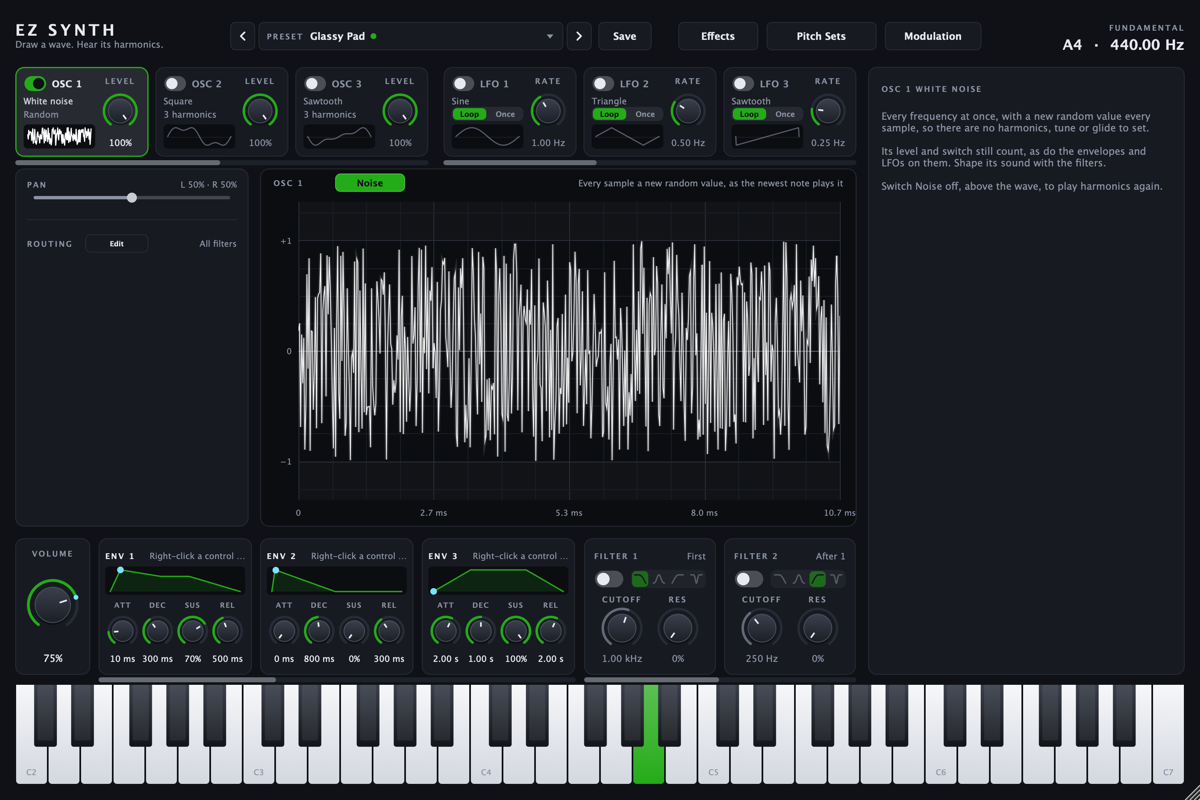
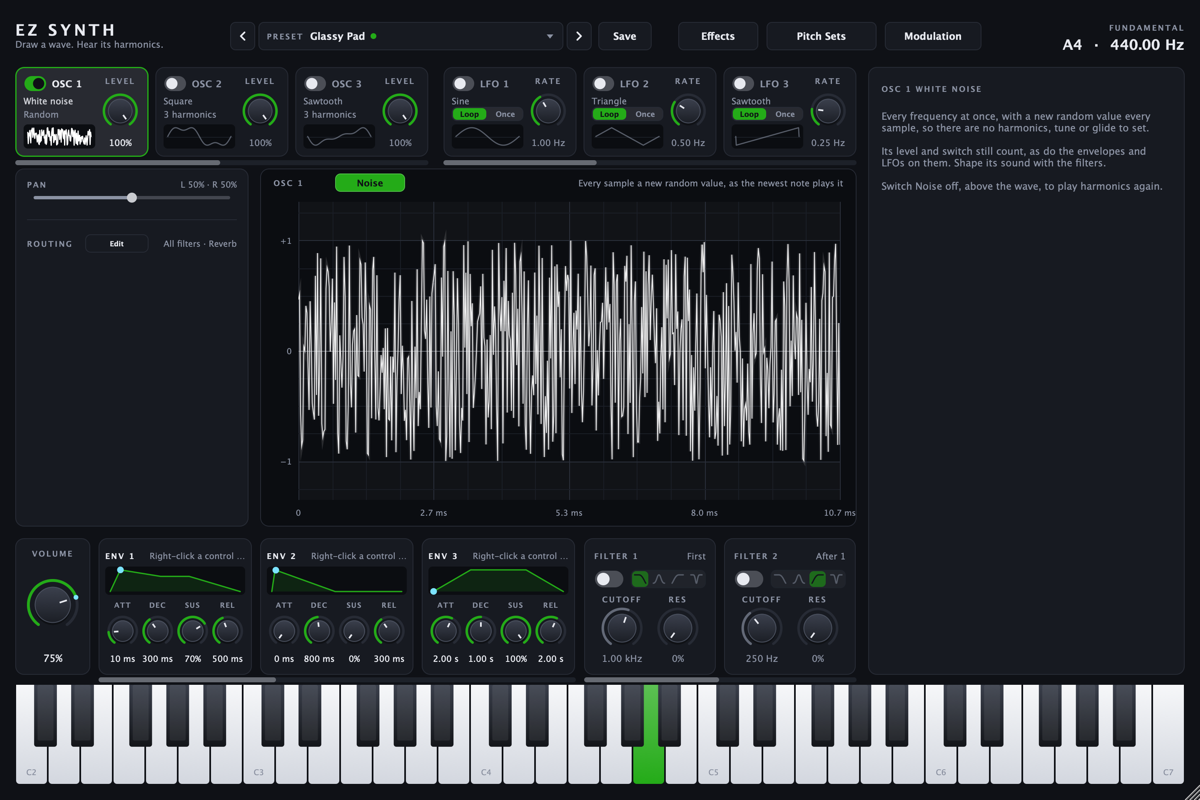
Send every oscillator through the reverb to begin with, in every pitch set, with its mix at 0% so it's off
By default I want all oscillators to route to reverb, for all pitch sets. Also by default I want reverb to be 100% dry, so it's effectively off.

Changed region(s): [[0.2467, 0.3125, 0.7092, 0.5625], [0.0, 0.1562, 0.0925, 0.1875], [0.1542, 0.2812, 0.185, 0.3125]]

diff --git a/Tests/Tests.cpp b/Tests/Tests.cpp
@@ -3645,8 +3645,41 @@ namespace
             auto synth = std::make_unique<SynthProcessor>();
             setPreset (*synth, 0, waveform::Preset::sine);
             setParameter (*synth, SynthProcessor::effectSendId (0, Patch::reverbEffect), sent ? 1.0f : 0.0f);
+            setParameter (*synth, SynthProcessor::reverbMixId, 0.3f);
             return synth;
         };
+
+        // To begin with, every oscillator's sent through the reverb, in every pitch set, but none of it's mixed in,
+        // so it's off: a note plays exactly as it would straight out, and stops when it does.
+        {
+            SynthProcessor fresh;
+            auto allSent = true;
+
+            for (int i = 0; i < SynthProcessor::numOscillators; ++i)
+                allSent = allSent && fresh.parameters.getRawParameterValue (SynthProcessor::effectSendId (i, Patch::reverbEffect))->load() >= 0.5f;
+
+            fresh.setActivePitchSet (fresh.addPitchSet ({ 60, 71 }));
+
+            for (int i = 0; i < SynthProcessor::numOscillators; ++i)
+                allSent = allSent && fresh.parameters.getRawParameterValue (SynthProcessor::effectSendId (i, Patch::reverbEffect))->load() >= 0.5f;
+
+            check (allSent && fresh.parameters.getRawParameterValue (SynthProcessor::reverbMixId)->load() == 0.0f,
+                   "to begin with, every oscillator in every pitch set is sent through the reverb, with none of it mixed in");
+
+            auto off = std::make_unique<SynthProcessor>();
+            setPreset (*off, 0, waveform::Preset::sine);
+            auto straight = std::make_unique<SynthProcessor>();
+            setPreset (*straight, 0, waveform::Preset::sine);
+            setParameter (*straight, SynthProcessor::effectSendId (0, Patch::reverbEffect), 0.0f);
+            const auto [left, right] = playSides (*off, 69, 0.2, 1.0);
+            const auto [straightLeft, straightRight] = playSides (*straight, 69, 0.2, 1.0);
+            auto furthest = 0.0f;
+
+            for (size_t i = 0; i < left.size(); ++i)
+                furthest = std::max ({ furthest, std::abs (left[i] - straightLeft[i]), std::abs (right[i] - straightRight[i]) });
+
+            check (peakOf (left) > 0.1f && furthest < 1.0e-6f, "...so it's off, and a note plays as it does straight out");
+        }
 
         const auto decibels = [] (double level) { return 20.0 * std::log10 (std::max (level, 1.0e-12)); };
 
@@ -3775,9 +3808,9 @@ namespace
                      && isNear (value (SynthProcessor::reverbMixId), 0.8, 0.01)
                      && value (SynthProcessor::effectSendId (0, Patch::reverbEffect)) > 0.5f,
                    "a preset keeps the reverb's settings, and which oscillators are sent through it");
-            check (loaded.loadFactoryPreset ("Acid Bass") && value (SynthProcessor::effectSendId (0, Patch::reverbEffect)) < 0.5f
-                     && isNear (value (SynthProcessor::reverbMixId), 0.3, 0.01),
-                   "...and a factory preset, saved before there was a reverb, sends nothing through it, set as it starts");
+            check (loaded.loadFactoryPreset ("Acid Bass") && value (SynthProcessor::effectSendId (0, Patch::reverbEffect)) >= 0.5f
+                     && value (SynthProcessor::reverbMixId) == 0.0f,
+                   "...and a factory preset, saved before there was a reverb, sends everything through it, with none mixed in");
             file.deleteFile();
         }
     }
@@ -4056,13 +4089,13 @@ namespace
 
             // Its reverb switch sends the oscillator through the reverb, after its filters.
             screen.showOscillator (2);
-            check (screen.describePath() == juce::String (juce::CharPointer_UTF8 ("Osc 3  \xe2\x86\x92  Filter 1  \xe2\x86\x92  Filter 3  \xe2\x86\x92  Filter 4  \xe2\x86\x92  Out"))
-                     && ! screen.getEffectSwitch (Patch::reverbEffect).getToggleState(),
-                   "...which spells out the path the oscillator takes, through no effect to begin with");
-            screen.getEffectSwitch (Patch::reverbEffect).setToggleState (true, juce::sendNotificationSync);
-            check (shown.parameters.getRawParameterValue (SynthProcessor::effectSendId (2, Patch::reverbEffect))->load() >= 0.5f
-                     && screen.describePath().endsWith (juce::String (juce::CharPointer_UTF8 ("Filter 4  \xe2\x86\x92  Reverb  \xe2\x86\x92  Out"))),
-                   "...and whose reverb switch sends it through the reverb, after its filters");
+            check (screen.describePath() == juce::String (juce::CharPointer_UTF8 ("Osc 3  \xe2\x86\x92  Filter 1  \xe2\x86\x92  Filter 3  \xe2\x86\x92  Filter 4  \xe2\x86\x92  Reverb  \xe2\x86\x92  Out"))
+                     && screen.getEffectSwitch (Patch::reverbEffect).getToggleState(),
+                   "...which spells out the path the oscillator takes, through the reverb, after its filters, to begin with");
+            screen.getEffectSwitch (Patch::reverbEffect).setToggleState (false, juce::sendNotificationSync);
+            check (shown.parameters.getRawParameterValue (SynthProcessor::effectSendId (2, Patch::reverbEffect))->load() < 0.5f
+                     && screen.describePath().endsWith (juce::String (juce::CharPointer_UTF8 ("Filter 4  \xe2\x86\x92  Out"))),
+                   "...and whose reverb switch takes it out of the reverb");
 
             screen.doneButton.onClick();
             check (! synthEditor.isRoutingScreenShown(), "Done closes it");
@@ -4070,11 +4103,11 @@ namespace
             // The Effects screen sets the reverb, and which oscillators are sent through it.
             synthEditor.showEffectsScreen (true);
             auto& effects = synthEditor.getEffectsScreen();
-            check (synthEditor.isEffectsScreenShown() && effects.getSendSwitch (2).getToggleState() && ! effects.getSendSwitch (0).getToggleState(),
+            check (synthEditor.isEffectsScreenShown() && ! effects.getSendSwitch (2).getToggleState() && effects.getSendSwitch (0).getToggleState(),
                    "the Effects screen shows which oscillators are sent through the reverb");
-            effects.getSendSwitch (0).setToggleState (true, juce::sendNotificationSync);
+            effects.getSendSwitch (0).setToggleState (false, juce::sendNotificationSync);
             effects.getReverbDial (2).setValue (6.0, juce::sendNotificationSync);
-            check (shown.parameters.getRawParameterValue (SynthProcessor::effectSendId (0, Patch::reverbEffect))->load() >= 0.5f
+            check (shown.parameters.getRawParameterValue (SynthProcessor::effectSendId (0, Patch::reverbEffect))->load() < 0.5f
                      && isNear (shown.parameters.getRawParameterValue (SynthProcessor::reverbDecayId)->load(), 6.0, 0.01),
                    "...and sets them, and the reverb's dials");
             synthEditor.showRoutingScreen (true, 0);
@@ -6587,17 +6620,18 @@ namespace
         setParameter (synth, SynthProcessor::filterSendId (1, 1), 1.0f);
         setParameter (synth, SynthProcessor::filterSendId (1, 3), 1.0f);
 
-        // The effects screen, oscillators 1 and 2 sent through the reverb, a larger room ringing for 3.5 seconds.
-        setParameter (synth, SynthProcessor::effectSendId (0, Patch::reverbEffect), 1.0f);
-        setParameter (synth, SynthProcessor::effectSendId (1, Patch::reverbEffect), 1.0f);
+        // The effects screen, every oscillator but the third sent through the reverb, a larger room ringing for
+        // 3.5 seconds, 30% of it mixed in.
+        setParameter (synth, SynthProcessor::effectSendId (2, Patch::reverbEffect), 0.0f);
+        setParameter (synth, SynthProcessor::reverbMixId, 0.3f);
         setParameter (synth, SynthProcessor::reverbSizeId, 72.0f);
         setParameter (synth, SynthProcessor::reverbDecayId, 3.5f);
         synthEditor.showEffectsScreen (true);
         synthEditor.refresh();
         save ("10g-effects");
         synthEditor.showEffectsScreen (false);
-        setParameter (synth, SynthProcessor::effectSendId (0, Patch::reverbEffect), 0.0f);
-        setParameter (synth, SynthProcessor::effectSendId (1, Patch::reverbEffect), 0.0f);
+        setParameter (synth, SynthProcessor::effectSendId (2, Patch::reverbEffect), 1.0f);
+        setParameter (synth, SynthProcessor::reverbMixId, 0.0f);
 
         // Pitch sets for three samples' ranges, the highest active, its keys marked on the keyboard, then one being
         // added, waiting for its highest key.

diff --git a/Source/SoundPrompt.cpp b/Source/SoundPrompt.cpp
@@ -192,7 +192,7 @@ oscillator's tune.
 - `oscNToFilterM`, true or false, true to begin with, sends oscillator N through filter M (1 to 4). The filters run
   in a chain, 1 to 4; an oscillator that isn't sent through one skips it, going straight on to the next. Use it to
   filter one part of a sound and not another, such as a low-passed body under an unfiltered noise attack.
-- `oscNToReverb`, true or false, false to begin with, sends oscillator N through the reverb, after its filters.
+- `oscNToReverb`, true or false, true to begin with, sends oscillator N through the reverb, after its filters.
   One that isn't sent through it plays straight out. See the reverb below.
 - A harmonic can be switched off, so it stays silent whatever the number of harmonics, or on, so it plays even
   above the number. Leave these as they follow the number unless you need them.
@@ -232,10 +232,11 @@ One stereo reverb, for the whole synth, that the oscillators sent through it (`o
 `reverbDelay`, the pre-delay before the first reflection, 0 to 200 ms (20 to begin with); `reverbSize`, the room,
 from 1 (a small box) to 100 (a large hall), 50 to begin with; `reverbDecay`, the seconds its tail takes to fall
 60 dB, 0.1 to 20 (2 to begin with), its highs fading twice as fast; and `reverbMix`, how much of what comes out of
-it is the reverb, 0 to 1 (0.3 to begin with), the rest being the dry sound. Held, a sound through it at full mix is
+it is the reverb, 0 to 1, the rest being the dry sound. It's 0 to begin with, so the reverb is off until it's
+turned up. Held, a sound through it at full mix is
 about as loud as it is dry. It goes on ringing after the note ends, so the sound tool's measurements of a note's
-fade include it: leave every oscillator's `oscNToReverb` false when matching a dry sample, and use it for pads,
-plucks in a space, and anything a sample shows ringing in a room.
+fade include it: leave `reverbMix` at 0 when matching a dry sample, and turn it up for pads, plucks in a space,
+and anything a sample shows ringing in a room; set an oscillator's `oscNToReverb` false to keep it dry.
 
 ### Envelopes
 

diff --git a/Source/SynthProcessor.cpp b/Source/SynthProcessor.cpp
@@ -222,10 +222,11 @@ namespace
                     juce::AudioParameterFloatAttributes()
                         .withStringFromValueFunction ([] (float spread, int) { return SynthProcessor::unisonSpreadToText (spread); })),
                 std::make_unique<juce::AudioParameterBool> (
-                    juce::ParameterID { SynthProcessor::effectSendId (i, Patch::reverbEffect), 1 }, name + " to Reverb", false)));
+                    juce::ParameterID { SynthProcessor::effectSendId (i, Patch::reverbEffect), 1 }, name + " to Reverb", true)));
         }
 
-        // The reverb, which oscillators are sent through on their own: a medium room, ringing for two seconds.
+        // The reverb, which every oscillator's sent through to begin with: a medium room, ringing for two seconds,
+        // but none of it mixed in, so it's off until the mix is turned up.
         {
             juce::NormalisableRange<float> decayRange (Reverb::shortestDecay, Reverb::longestDecay);
             decayRange.setSkewForCentre (2.0f);
@@ -255,7 +256,7 @@ namespace
                         })),
                 std::make_unique<juce::AudioParameterFloat> (
                     juce::ParameterID { SynthProcessor::reverbMixId, 1 }, "Reverb Mix",
-                    juce::NormalisableRange<float> (0.0f, 1.0f), 0.3f, asPercentage())));
+                    juce::NormalisableRange<float> (0.0f, 1.0f), 0.0f, asPercentage())));
         }
 
         // The filters start switched out, a low pass, a high pass, a mid pass and a notch, at cutoffs that change the

diff --git a/Source/Reverb.cpp b/Source/Reverb.cpp
@@ -148,12 +148,27 @@ void Reverb::process (float* left, float* right, int numSamples, const Settings&
         return std::all_of (samples, samples + numSamples, [] (float sample) { return sample == 0.0f; });
     };
 
-    if (! isRinging() && glide && silent (left) && silent (right))
+    // With none of it mixed in, and none still fading out, it's off: what went in comes out as it is. It starts
+    // again from silence when it's turned up.
+    const auto off = glide && current.mix <= 0.0f && settings.mix <= 0.0f;
+
+    if ((! isRinging() && glide && silent (left) && silent (right)) || off)
     {
         current = settings;
         scale = sizeToScale (settings.size);
+
+        if (off && ! resting)
+        {
+            reset();
+            glide = true;
+            resting = true;
+            current = settings;
+        }
+
         return;
     }
+
+    resting = false;
 
     const auto share = glideShare (sampleRate);
     const auto toward = [share] (float& value, float target)

diff --git a/Source/SynthProcessor.h b/Source/SynthProcessor.h
@@ -71,8 +71,9 @@ public:
     */
     static juce::String filterSendId (int oscillator, int filter);
 
-    /** The ID of whether an oscillator's sent through an effect, numbered from 0, once it's filtered, which none is
-        to begin with. One sent through none plays straight out. For now the only effect is the reverb.
+    /** The ID of whether an oscillator's sent through an effect, numbered from 0, once it's filtered, which every
+        one is to begin with. One sent through none plays straight out. For now the only effect is the reverb, which
+        starts with none of it mixed in.
     */
     static juce::String effectSendId (int oscillator, int effect);
 

diff --git a/Source/Patch.h b/Source/Patch.h
@@ -58,7 +58,7 @@ struct Patch
         float unisonSpread = 0.5f;
 
         /** Whether it's sent through each effect, once it's filtered. One sent through none plays straight out. */
-        std::array<bool, numEffects> effectSends {};
+        std::array<bool, numEffects> effectSends { true };
 
         /** Whether it's sent through each filter, or skips it, going straight on to the next. */
         std::array<bool, modulation::numFilters> filterSends { true, true, true, true };

diff --git a/Source/Reverb.h b/Source/Reverb.h
@@ -25,7 +25,7 @@ public:
         float decay = 2.0f;
 
         /** How much of what comes out is the reverb, from 0 to 1, the rest being what went in. */
-        float mix = 0.3f;
+        float mix = 0.0f;
     };
 
     static constexpr float longestDelay = 200.0f;
@@ -79,4 +79,5 @@ private:
     int untilUpdate = 0;
 
     int quietSamples = 0, ringingSamples = 0;
+    bool resting = false;
 };

diff --git a/README.md b/README.md
@@ -67,8 +67,8 @@ It runs as a standalone Mac app, and as a VST3 or Audio Unit instrument in a DAW
   the reverb, beside its settings. The filters run in a
   chain, from the first to the last, and every oscillator is sent through every one to begin with; switch a
   filter off and the oscillator skips it, going straight on to the next, while the others are still filtered
-  as they were. After the filters, an oscillator sent through the reverb plays out through it; none is to
-  begin with. The path the oscillator's sound takes, such as *Osc 2 → Filter 1 → Filter 3 → Reverb → Out*, is
+  as they were. After the filters, an oscillator sent through the reverb plays out through it; every one is
+  to begin with, but the reverb starts with none of it mixed in, so it's off until its **Mix** is turned up. The path the oscillator's sound takes, such as *Osc 2 → Filter 1 → Filter 3 → Reverb → Out*, is
   spelled out above the switches, and the Routing row says which filters it's sent through, and the reverb,
   if it is. Each pitch set can route its oscillators differently. The reverb's **Settings** button opens the
   effects' screen. **Done**, or Escape, goes back to the synth.
@@ -80,16 +80,19 @@ It runs as a standalone Mac app, and as a VST3 or Audio Unit instrument in a DAW
   box, to 100, a large hall, which spaces the reflections and the echoes its tail is made of; **Decay**, how
   long the tail takes to fall 60 dB, from 0.1 to 20 seconds, its highs fading twice as fast, as in a real
   room; and **Mix**, how much of what comes out is the reverb, the rest being the dry sound. Under them is a
-  switch for each oscillator, sending it through the reverb, the same switches as on the routing screen. An
-  oscillator sent through it rings on after its note ends; one that isn't plays straight out, dry. Held, a
+  switch for each oscillator, sending it through the reverb, the same switches as on the routing screen. Every
+  oscillator, in every pitch set, is sent through it to begin with, and the mix starts at 0%, all dry, so the
+  reverb is off until you turn the mix up; with none of it mixed in it doesn't run at all. An oscillator sent
+  through it rings on after its note ends; one that isn't plays straight out, dry. Held, a
   sound at full mix is about as loud as it is dry, in any room. Moving the dials while it rings glides them,
   so nothing clicks; changing the size bends the tail's pitch a little as it glides. The reverb is one for the
   whole synth, set the same for every pitch set, though each pitch set chooses which of its oscillators go
-  through it. It's saved with presets, and a preset from before there was a reverb sends nothing through it.
+  through it. It's saved with presets, and a preset from before there was a reverb sends every oscillator
+  through it with none mixed in, so it plays dry.
   Double-click a dial to set it back to where it starts. Its dials can't be moved by LFOs or envelopes, as
   they belong to every note at once.
 
-![The effects screen: the reverb's delay, size, decay and mix dials, with oscillators 1 and 2 switched to be sent through it](docs/images/effects.png)
+![The effects screen: the reverb's delay, size, decay and mix dials, turned up to 30%, with every oscillator but the third switched to be sent through it](docs/images/effects.png)
 
 - **Zoom in on the tune** with the **Zoom** slider just above it, to set small tunings. Drag it right to
   zoom in, from two octaves either side down to a semitone either side, and left to zoom out; double-click it
@@ -845,7 +848,7 @@ save pictures of the window showing several waves.
   if the decay were half as long. As much goes in as the tail keeps from fading, √(1 − g²), so a steady
   sound comes out about as loud however long it rings. Each side hears the lines in its own blend of signs,
   so the two sides differ. The settings glide over about 50 ms; the lines' lengths are read between samples,
-  so the size can glide. Once it's rung out and nothing's sent to it, it rests.
+  so the size can glide. Once it's rung out and nothing's sent to it, or while none of it is mixed in, it rests.
 - **Filtering.** Each note goes through its own four filters, from the first to the last
   (`Source/FilterStage.cpp`), so an LFO that runs once can sweep each note's filter separately. Each is a
   state variable filter, 12 dB an octave, made with the topology-preserving transform, which works out the
